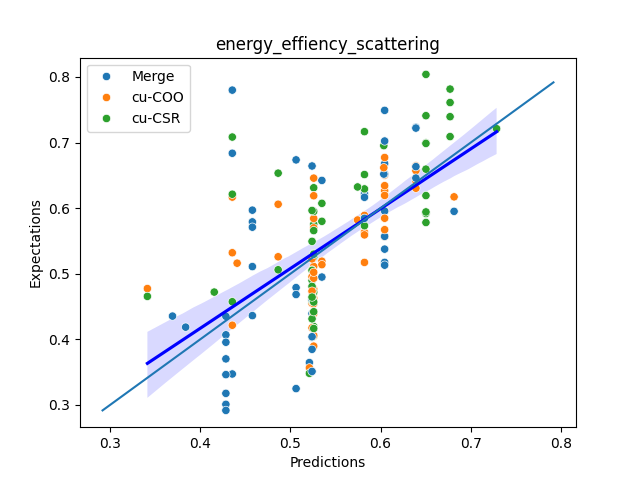
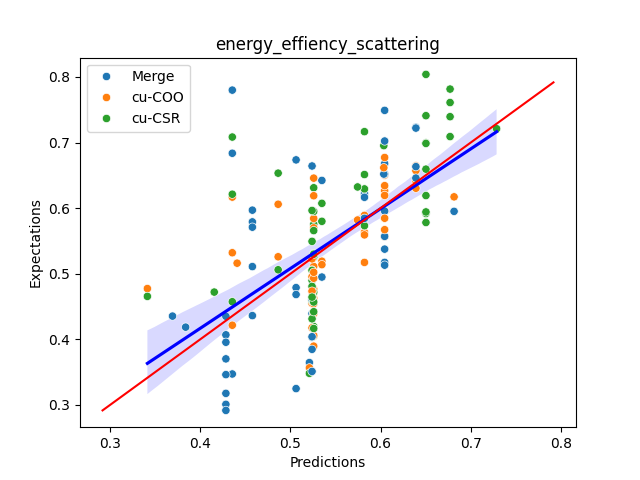
Last run of the day

diff --git a/Performance_predictors/main.py b/Performance_predictors/main.py
@@ -51,8 +51,11 @@ if __name__ == "__main__":
             name = "mlp_{}epochs_load".format(MLP_globals.nb_epochs)
             path = g.MODEL_PATH + "{}/mlp".format(system_used)
             runners.plot_prediction_dispersion_mlp(model, validation_dataset, name, path)
-            avg_loss = runners.average_loss_mlp(model, validation_dataset)
-            print("Avg loss of model mlp : {}%".format(avg_loss.detach().tolist()*100))
+            avg_loss_gflops = runners.average_loss_mlp(model, validation_dataset, 0)
+            print("Avg loss of model mlp on gflops : {}%".format(avg_loss_gflops.detach().tolist()*100))
+
+            avg_loss_energy_efficiency = runners.average_loss_mlp(model, validation_dataset, 1)
+            print("Avg loss of model mlp on energy efficiency : {}%".format(avg_loss_energy_efficiency.detach().tolist()*100))
         
         elif model_used == "tree":
             csv_path_validation = g.DATA_PATH + "/validation/all_format/all_format_{}.csv".format(system_used)
@@ -95,8 +98,11 @@ if __name__ == "__main__":
         runners.plot_prediction_dispersion_mlp(mlp_model, validation_dataset, name, path)
 
         # Computing average loss on validation dataset
-        avg_loss = runners.average_loss_mlp(mlp_model, validation_dataset)
-        print("Avg loss of model mlp :{}¨%".format(avg_loss.tolist()*100))
+        avg_loss_gflops = runners.average_loss_mlp(mlp_model, validation_dataset, 0)
+        print("Avg loss of model mlp on gflops : {}%".format(avg_loss_gflops.detach().tolist()*100))
+
+        avg_loss_energy_efficiency = runners.average_loss_mlp(mlp_model, validation_dataset, 1)
+        print("Avg loss of model mlp on energy efficiency : {}%".format(avg_loss_energy_efficiency.detach().tolist()*100))
         
     elif model_used == "svr":
         print("running Support Vector Regression model")
@@ -120,7 +126,7 @@ if __name__ == "__main__":
 
         # Computing average loss on validation dataset
         avg_loss : torch.Tensor = runners.average_loss_sklearn(model_gflops, validation_dataset, 0)
-        print("Avg loss of svr model on gflops : {}%".format(avg_loss.tolist()))
+        print("Avg loss of svr model on gflops : {}%".format(avg_loss.tolist()*100))
 
         print("Running svr on energy efficiency predictions")
         # Running model
@@ -138,7 +144,7 @@ if __name__ == "__main__":
 
         # Computing average loss on validation dataset
         avg_loss : torch.Tensor = runners.average_loss_sklearn(model_energy_efficiency, validation_dataset, 1)
-        print("Avg loss of svr model on energy_efficiency : {}%".format(avg_loss.tolist()))
+        print("Avg loss of svr model on energy_efficiency : {}%".format(avg_loss.tolist()*100))
 
     elif model_used == "tree":
         print("running decision trees")
@@ -157,7 +163,7 @@ if __name__ == "__main__":
 
         # Computing average loss on validation dataset
         avg_loss : torch.Tensor = runners.average_loss_sklearn(tree_gflops, validation_dataset, 0)
-        print("Avg loss of tree model on gflops : {}%".format(avg_loss.tolist()))
+        print("Avg loss of tree model on gflops : {}%".format(avg_loss.tolist()*100))
 
 
         # Running model
@@ -170,4 +176,4 @@ if __name__ == "__main__":
 
         # Computing average loss on validation dataset
         avg_loss : torch.Tensor = runners.average_loss_sklearn(tree_energy_efficiency, validation_dataset, 1)
-        print("Avg loss of tree model on energy efficiency : {}%".format(avg_loss.tolist()))
+        print("Avg loss of tree model on energy efficiency : {}%".format(avg_loss.tolist()*100))

diff --git a/Performance_predictors/model_runners.py b/Performance_predictors/model_runners.py
@@ -7,6 +7,7 @@ import dataReader
 import torch
 from torch.utils.data.sampler import SubsetRandomSampler
 from torch.utils.data import DataLoader
+from torchmetrics.regression import MeanAbsolutePercentageError
 import matplotlib.pyplot as plt
 import numpy as np
 from globals import MODEL_PATH, DATA_PATH, models
@@ -209,7 +210,7 @@ def plot_prediction_dispersion_sklearn(model:torch.nn.Module,
     sns.regplot(x=predictions, y=expectations, scatter=False, fit_reg=True, color="Blue")
     sns.scatterplot(x=predictions, y=expectations, hue=implementations)
     
-    plot = sns.lineplot(x=identity, y=identity)
+    plot = sns.lineplot(x=identity, y=identity, color="Red")
     plt.xlabel("Predictions")
     plt.ylabel("Expectations")
 
@@ -276,14 +277,18 @@ def plot_prediction_dispersion_mlp(model:torch.nn.Module,
     plot.get_figure().savefig("{}/energy_efficiency_scattering_{}.png".format(path, name))
     plt.clf()
 
-def average_loss_mlp(model:torch.nn.Module, validation_dataset:db.SparseMatrixDataset):
+def average_loss_mlp(model:torch.nn.Module, validation_dataset:db.SparseMatrixDataset, out_feature:int):
     print("Average loss mlp")
     length_dataset = len(validation_dataset)
     avg_loss_lst : list = []
+    loss_fnc = MeanAbsolutePercentageError()
     for idx in range(length_dataset):
         (X, Y) = validation_dataset[idx]
-        y_pred = model(X)
-        loss = MAPELoss(y_pred.detach(), Y)
+        prediction = predict_mlp(model, X, validation_dataset.scaler_gflops, validation_dataset.scaler_energy_efficiency)
+        gflops_unscaled = torch.tensor(validation_dataset.scaler_gflops.inverse_transform(Y[0].view(1, -1)))
+        energy_efficiency_unscaled = torch.tensor(validation_dataset.scaler_energy_efficiency.inverse_transform(Y[1].view(1, -1)))
+        expectation = torch.cat((gflops_unscaled, energy_efficiency_unscaled), 1)
+        loss = loss_fnc(prediction, expectation)
         avg_loss_lst.append(loss)
     return sum(avg_loss_lst)/len(avg_loss_lst)
 
@@ -291,10 +296,17 @@ def average_loss_sklearn(model:torch.nn.Module, validation_dataset:db.SparseMatr
     print("Average loss sklearn")
     length_dataset = len(validation_dataset)
     avg_loss_lst : list = []
+    loss_fnc = MeanAbsolutePercentageError()
     for idx in range(length_dataset):
         (X, Y) = validation_dataset[idx]
         input = np.array([X.numpy()])
-        y_pred = torch.tensor(model(input))
-        loss = MAPELoss(Y[out_feature], y_pred)
+        y_pred = model(input)
+        if out_feature == 0:
+            y_pred_unscaled = torch.tensor(validation_dataset.scaler_gflops.inverse_transform(y_pred.reshape(-1, 1)))
+            expectation = torch.tensor(validation_dataset.scaler_gflops.inverse_transform(Y[out_feature].view(-1, 1)))
+        elif out_feature == 1:
+            y_pred_unscaled = torch.tensor(validation_dataset.scaler_energy_efficiency.inverse_transform(y_pred.reshape(-1, 1)))
+            expectation = torch.tensor(validation_dataset.scaler_energy_efficiency.inverse_transform(Y[out_feature].view(-1, 1)))
+        loss = loss_fnc(y_pred_unscaled, expectation)
         avg_loss_lst.append(loss)
     return sum(avg_loss_lst)/len(avg_loss_lst)

diff --git a/Performance_predictors/dataReader.py b/Performance_predictors/dataReader.py
@@ -42,12 +42,12 @@ class SparseMatrixDataset(Dataset):
         
         # Scaling gflops output
         gflops = self.dataframe[["gflops"]].values
-        self.scaler_gflops = preprocessing.StandardScaler().fit(gflops)
+        self.scaler_gflops = preprocessing.MinMaxScaler().fit(gflops)
         gflops_scaled = torch.tensor(self.scaler_gflops.transform(gflops), dtype=torch.float32)
 
         # Scaling energy_efficiency output
         energy_efficiency = torch.tensor(self.dataframe[["energy_efficiency"]].values, dtype=torch.float32)
-        self.scaler_energy_efficiency = preprocessing.StandardScaler().fit(energy_efficiency)
+        self.scaler_energy_efficiency = preprocessing.MinMaxScaler().fit(energy_efficiency)
         energy_efficiency_scaled = torch.tensor(self.scaler_energy_efficiency.transform(energy_efficiency), dtype=torch.float32)
 
         # Adding the scaled glops and energy_efficiency to output
@@ -56,7 +56,7 @@ class SparseMatrixDataset(Dataset):
     
 
     def scale_row(self, row):
-        scaler = preprocessing.StandardScaler()
+        scaler = preprocessing.MinMaxScaler()
         row_scaled = scaler.fit_transform(row.reshape(-1, 1))
         return row_scaled, scaler
     

diff --git a/Performance_predictors/MLP/globals.py b/Performance_predictors/MLP/globals.py
@@ -1,6 +1,6 @@
 import torch
 
-nb_epochs = 1
+nb_epochs = 100
 lr = 0.01
 loss_fn = torch.nn.MSELoss()
 activation_fn = torch.nn.Sigmoid()
